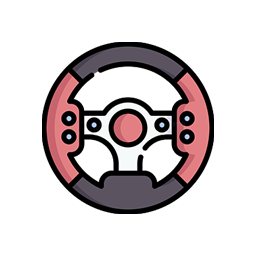
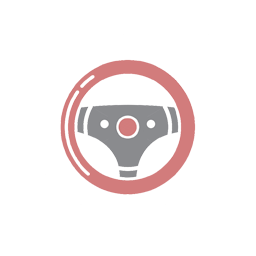
change3

Changed region(s): [[0.1562, 0.1562, 0.8438, 0.8438]]

diff --git a/selfdrive/ui/carrot.cc b/selfdrive/ui/carrot.cc
@@ -1127,9 +1127,9 @@ protected:
         //if (xDistToTurn <= 0 || nGoPosDist <= 0) return;
         char str[128] = "";
 
-        int tbt_x = s->fb_w - 800;
+        int tbt_x = 140 - 120;
         int tbt_y = s->fb_h - 250;
-        NVGcolor stroke_color = COLOR_WHITE;
+        NVGcolor stroke_color = COLOR_WHITE_ALPHA(152);
         if (s->scene._current_carrot_display == 3) {
           ui_fill_rect(s->vg, { tbt_x, 5, 790, s->fb_h - 15 }, COLOR_BLACK_ALPHA(120), 30, 2, &stroke_color);
         }
@@ -1159,11 +1159,11 @@ protected:
             case 3: ui_draw_image(s, { bx - icon_size / 2, by - icon_size / 2, icon_size, icon_size }, "ic_lane_change_l", 1.0f); break;
             case 4: ui_draw_image(s, { bx - icon_size / 2, by - icon_size / 2, icon_size, icon_size }, "ic_lane_change_r", 1.0f); break;
             case 7: ui_draw_image(s, { bx - icon_size / 2, by - icon_size / 2, icon_size, icon_size }, "ic_turn_u", 1.0f); break;
-            case 6: ui_draw_text(s, bx, by + 20, "TG", 35, COLOR_WHITE, BOLD); break;
-            case 8: ui_draw_text(s, bx, by + 20, "目的地", 35, COLOR_WHITE, BOLD); break;
+            case 6: ui_draw_text(s, bx, by + 20, "TG", 35, COLOR_WHITE_ALPHA(200), BOLD); break;
+            case 8: ui_draw_text(s, bx, by + 20, "目的地", 35, COLOR_WHITE_ALPHA(200), BOLD); break;
             default:
                 sprintf(str, "减速:%d", xTurnInfo);
-                ui_draw_text(s, bx, by + 20, str, 35, COLOR_WHITE, BOLD);
+                ui_draw_text(s, bx, by + 20, str, 35, COLOR_WHITE_ALPHA(200), BOLD);
                 break;
             }
             if (s->scene.is_metric) {
@@ -1174,7 +1174,7 @@ protected:
               if (xDistToTurn < 1609) sprintf(str, "%d ft", (int)(xDistToTurn * 3.28084));
               else sprintf(str, "%.1f mi", xDistToTurn / 1609.344f);
             }
-            ui_draw_text(s, bx, by + 120, str, 40, COLOR_WHITE, BOLD);
+            ui_draw_text(s, bx, by + 120, str, 40, COLOR_WHITE_ALPHA(200), BOLD);
         }
         nvgTextAlign(s->vg, NVG_ALIGN_LEFT | NVG_ALIGN_BOTTOM);
         if (szPosRoadName.length() > 0) {
@@ -1183,8 +1183,8 @@ protected:
             nvgTextBounds(s->vg, tbt_x + 200, tbt_y + 200, szPosRoadName.toStdString().c_str(), NULL, bounds);
             float text_width = bounds[2] - bounds[0];
             float text_height = bounds[3] - bounds[1];
-            ui_fill_rect(s->vg, { (int)bounds[0] - 10, (int)bounds[1] - 2, (int)text_width + 20, (int)text_height + 13 }, COLOR_GREEN, 10);
-            ui_draw_text(s, tbt_x + 200, tbt_y + 200, szPosRoadName.toStdString().c_str(), 40, COLOR_WHITE, BOLD);
+            ui_fill_rect(s->vg, { (int)bounds[0] - 10, (int)bounds[1] - 2, (int)text_width + 20, (int)text_height + 13 }, COLOR_GREEN_ALPHA(180), 10);
+            ui_draw_text(s, tbt_x + 200, tbt_y + 200, szPosRoadName.toStdString().c_str(), 40, COLOR_WHITE_ALPHA(200), BOLD);
         }
 
         if (nGoPosDist > 0 && nGoPosTime > 0) {
@@ -1195,9 +1195,9 @@ protected:
             mktime(local);
             bool is_kor = s->language == "main_ko";
             sprintf(str, "%s: %.1f%s(%02d:%02d)", (is_kor)?"到达":"预计", (float)nGoPosTime / 60., (is_kor)?"分钟":"分钟", local->tm_hour, local->tm_min);
-            ui_draw_text(s, tbt_x + 190, tbt_y + 80, str, 50, COLOR_WHITE, BOLD);
+            ui_draw_text(s, tbt_x + 190, tbt_y + 80, str, 50, COLOR_WHITE_ALPHA(200), BOLD);
             sprintf(str, "剩余:%.1f%s", nGoPosDist / 1000. * ((s->scene.is_metric)?1:KM_TO_MILE), (s->scene.is_metric) ? "公里" : "英里");
-            ui_draw_text(s, tbt_x + 190, tbt_y + 130, str, 50, COLOR_WHITE, BOLD);
+            ui_draw_text(s, tbt_x + 190, tbt_y + 130, str, 50, COLOR_WHITE_ALPHA(200), BOLD);
         }
         return 0;
     }
@@ -2541,7 +2541,7 @@ public:
             nvgTextAlign(s->vg, NVG_ALIGN_CENTER | NVG_ALIGN_BOTTOM);
             if (show_datetime == 1 || show_datetime == 2) {
                 strftime(str, sizeof(str), "%H:%M", local);
-                ui_draw_text(s, x, y, str, 100, COLOR_WHITE, BOLD, 3.0f, 8.0f);
+                ui_draw_text(s, x, y, str, 100, COLOR_WHITE_ALPHA(200), BOLD, 3.0f, 8.0f);
 
             }
             if (show_datetime == 1 || show_datetime == 3) {
@@ -2551,7 +2551,7 @@ public:
                 int weekday_index = local->tm_wday; // tm_wday: 0=일, 1=월, ..., 6=토
                 snprintf(str + strlen(str), sizeof(str) - strlen(str), "(%s)", weekdays_ko[weekday_index]);
 
-                ui_draw_text(s, x, y + 70, str, 60, COLOR_WHITE, BOLD, 3.0f, 8.0f);
+                ui_draw_text(s, x, y + 70, str, 60, COLOR_WHITE_ALPHA(200), BOLD, 3.0f, 8.0f);
                 nav_y += 70;
             }
             if (false && szPosRoadName.size() > 0) {
